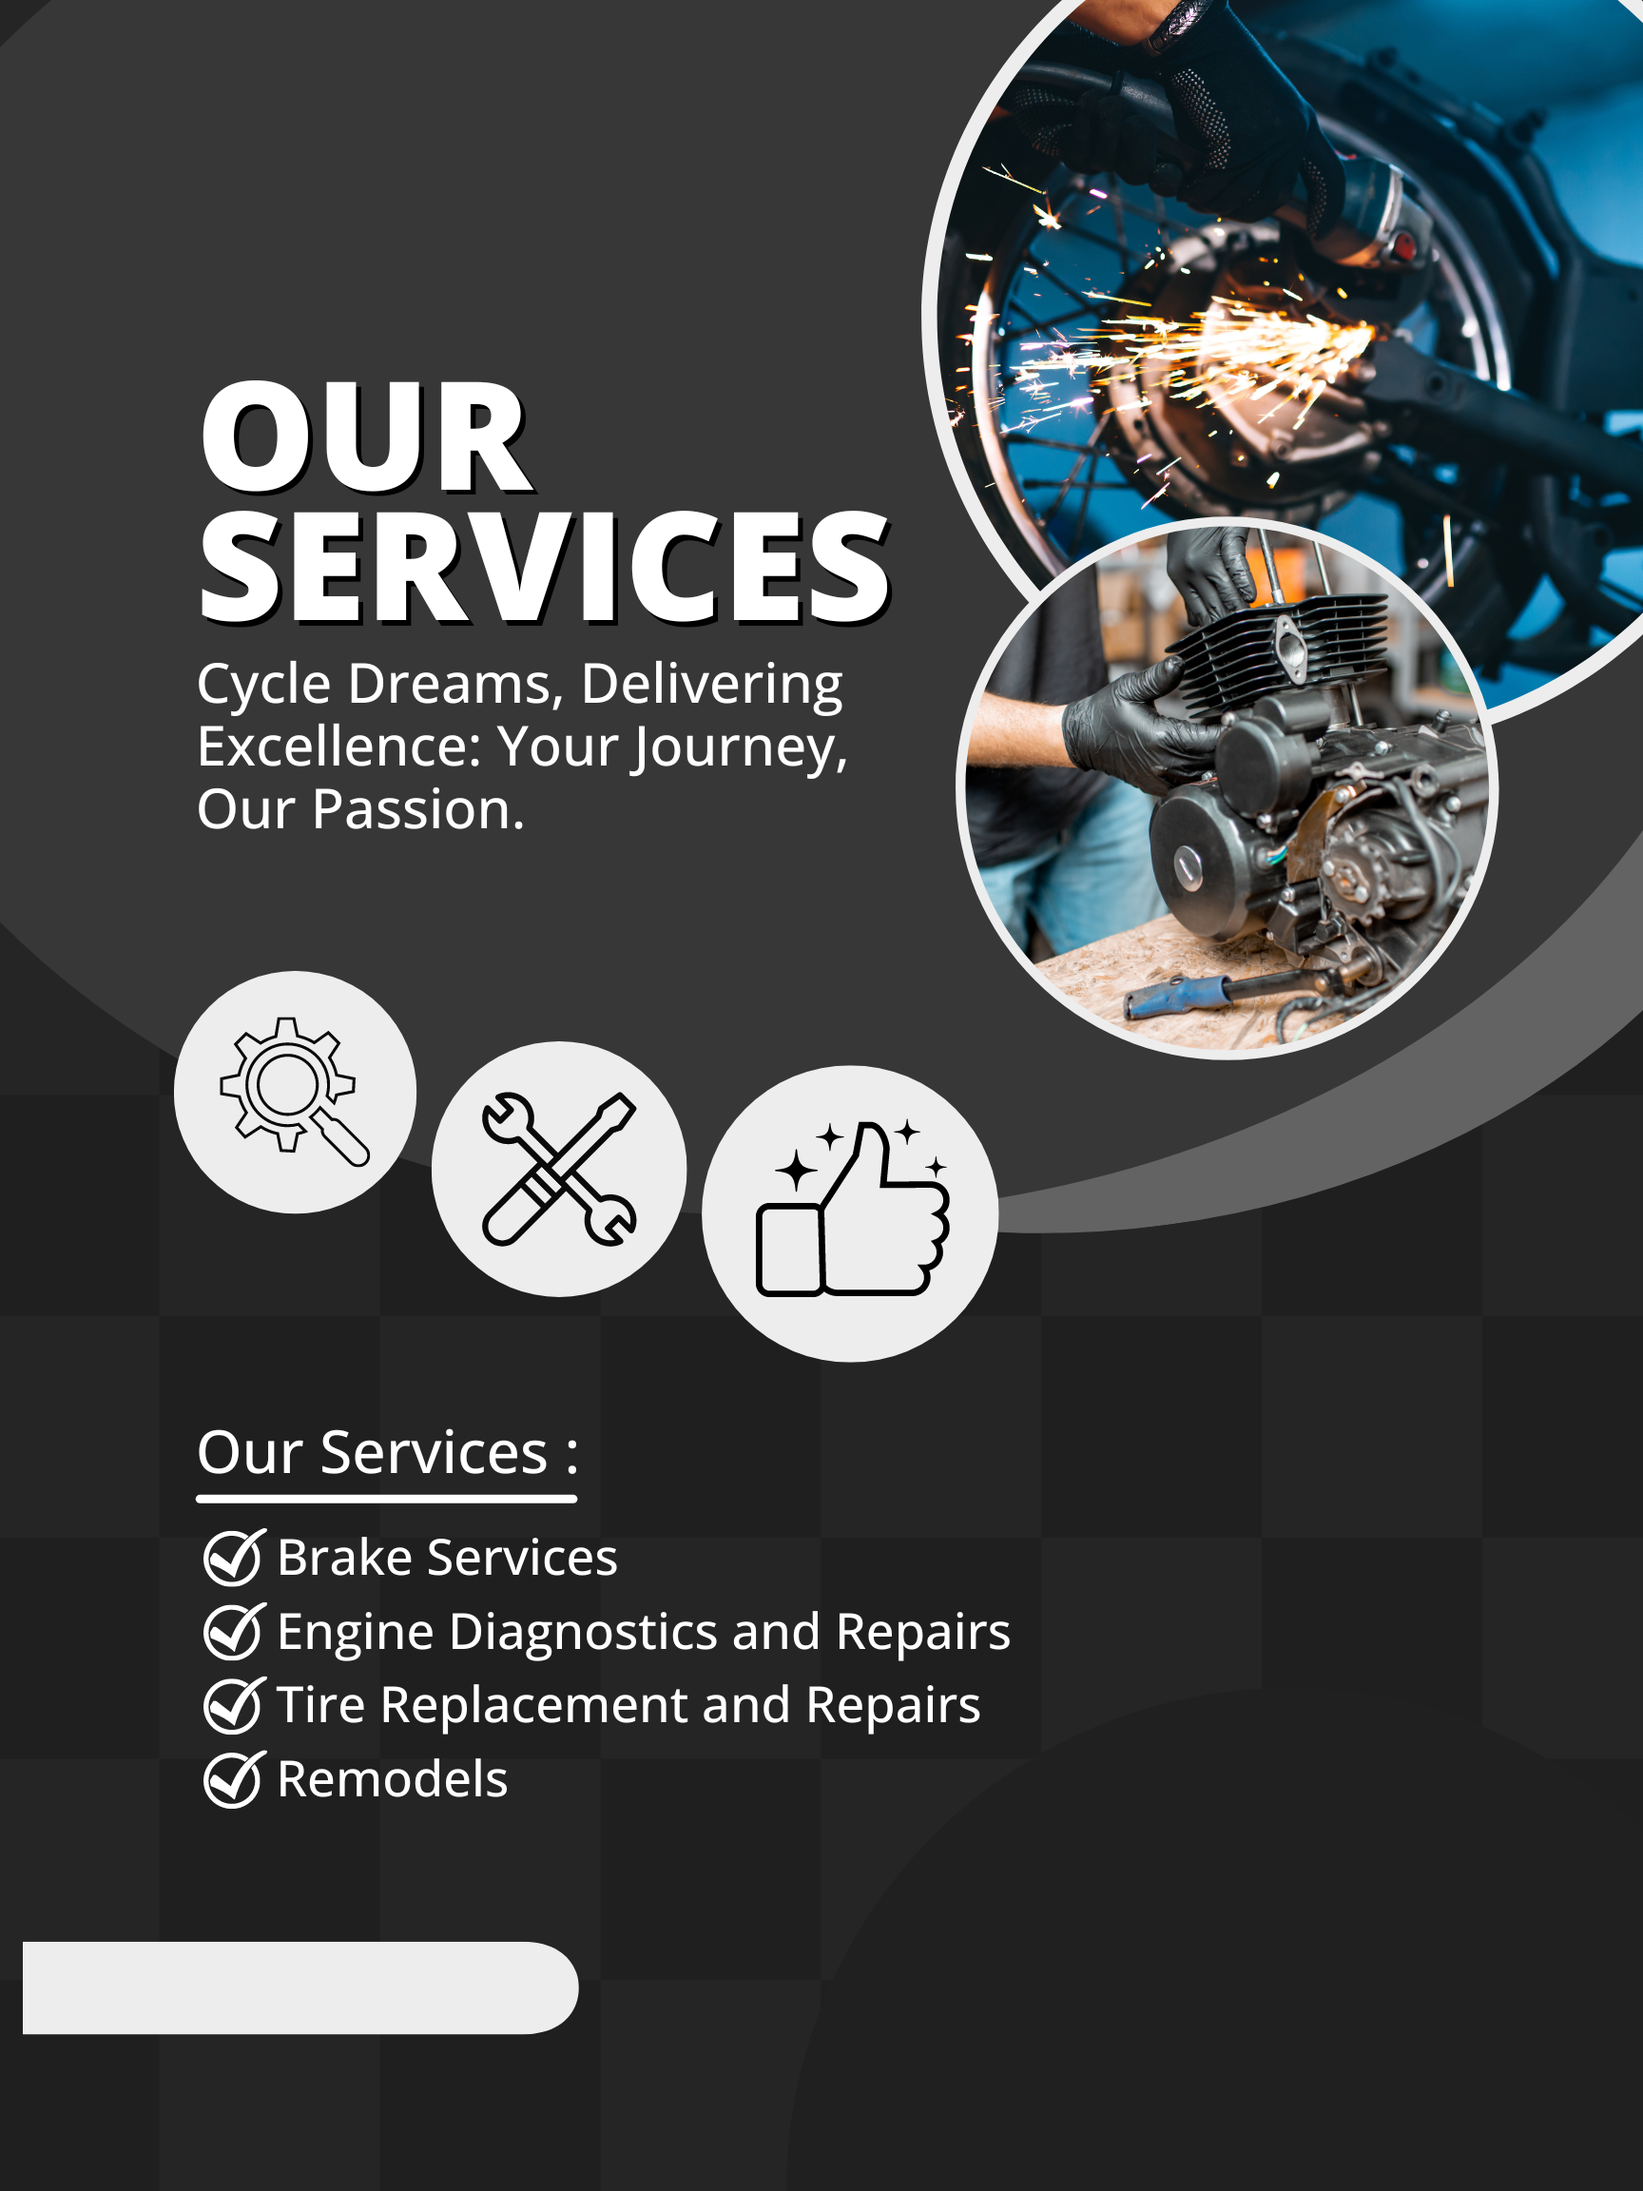
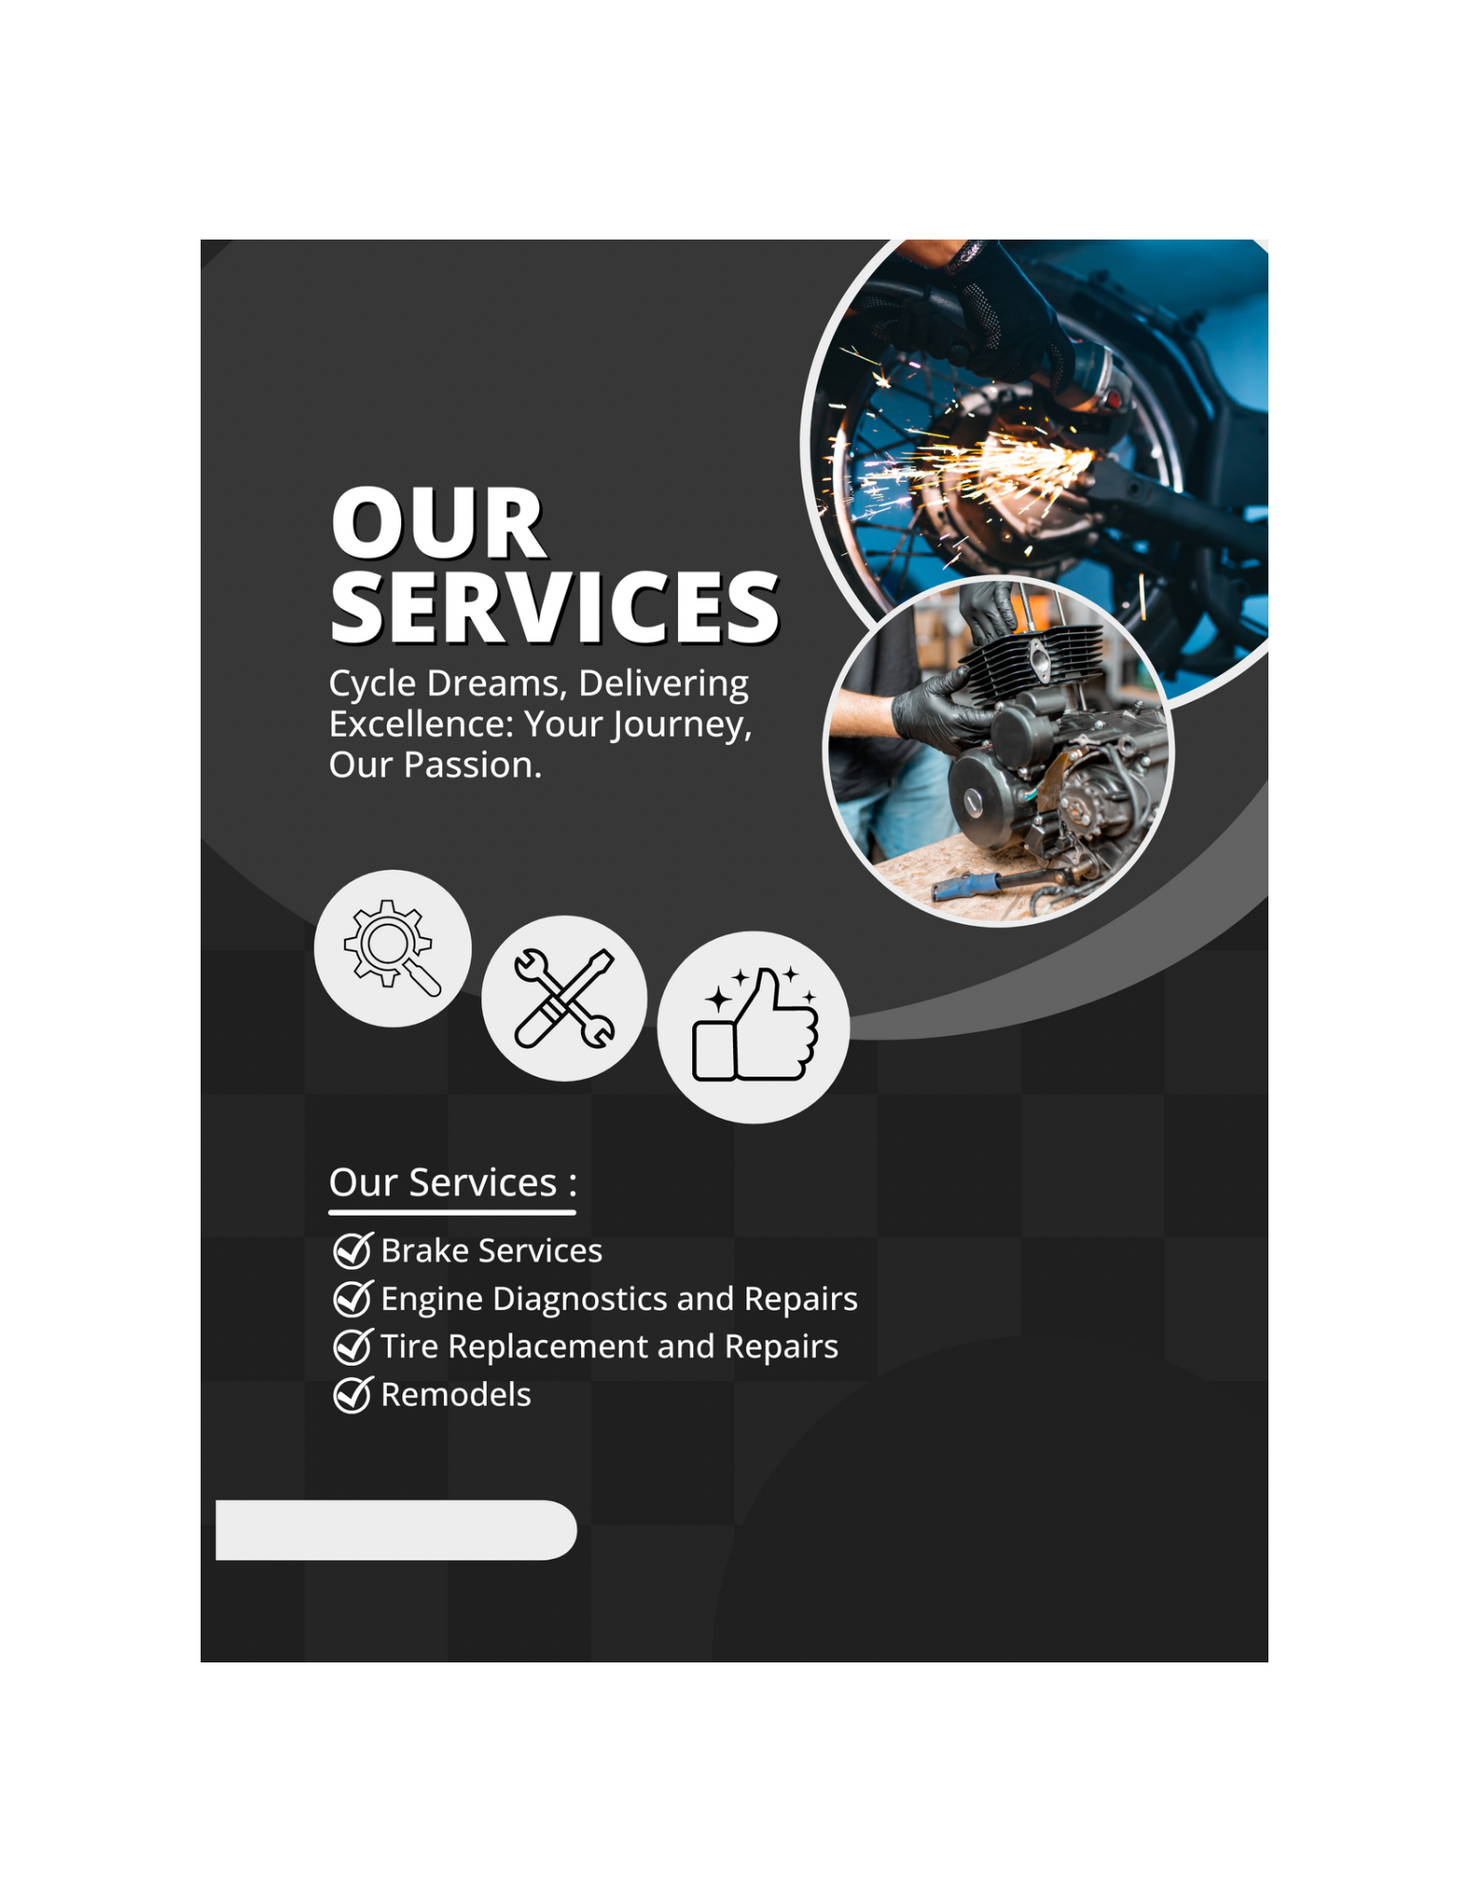
final

diff --git a/stylesheet/stylesheet4.css b/stylesheet/stylesheet4.css
@@ -21,33 +21,40 @@ body, html {
 }
 
 
-.cont-img {
-  border-radius: 5px;;
-  padding: 20px;
+form {
+  border: 4px solid #f1f1f1;
 }
-/* Style inputs with type="text", select elements and textareas */
-input[type=text], select, textarea {
-  width: 100%; /* Full width */
-  padding: 12px; /* Some padding */  
-  border: 1px solid #ccc; /* Gray border */
-  border-radius: 4px; /* Rounded borders */
-  box-sizing: border-box; /* Make sure that padding and width stays in place */
-  margin-top: 6px; /* Add a top margin */
-  margin-bottom: 16px; /* Bottom margin */
-  resize: vertical; /* Allow the user to vertically resize the textarea (not horizontally) */
-color:white}
 
-/* Style the submit button with a specific background color etc */
+/* Add some padding and a grey background color to containers */
+.container2 { padding: 20px;
+  background-color: #f1f1f1; width: 50%; display: flex;position: absolute;
+  left: 0;
+  margin: 20px;
+  
+}
+
+/* Style the input elements and the submit button */
+input[type=text], input[type=submit] {
+  width: 50%;
+  padding: 12px;
+  margin: 8px 0;
+  display: inline-block;
+  border: 1px solid #ccc;
+  box-sizing: border-box;
+}
+
+/* Add margins to the checkbox */
+input[type=checkbox] {
+  margin-top: 16px;
+}
+
+/* Style the submit button */
 input[type=submit] {
   background-color: maroon;
   color: white;
-  padding: 12px 20px;
   border: none;
-  border-radius: 4px;
-  cursor: pointer;
 }
 
-/* When moving the mouse over the submit button, add a darker green color */
 input[type=submit]:hover {
-  background-color:black;
+  opacity: 0.8;
 }

diff --git a/services.html b/services.html
@@ -3,8 +3,41 @@
 <head>
 <meta charset="UTF-8">
 <title>Untitled Document</title>
-</head>
+<link rel="stylesheet" type="text/css" href="stylesheet/stylesheet5.css">
+	<link rel="preconnect" href="https://fonts.googleapis.com">
+<link rel="preconnect" href="https://fonts.gstatic.com" crossorigin>
+<link href="https://fonts.googleapis.com/css2?family=Anton+SC&family=Bangers&display=swap" rel="stylesheet">
+	</head>
 
 <body>
+
+	<header>
+      
+      
+  <div class="container">
+	  
+    <div class="topnav">
+		<img class="logo" src="images/GearHead Garage.png"  alt="logo">
+      <a href="aboutpage.html">About</a>
+		<a href="contact.html">Contact</a>
+		<a href="services.html">Services</a>
+      <a href="index.html">Home</a>
+      
+	  
+	  </div>
+</div>
+	</header>
+	<h3 class="bangers-regular"> Ride smooth with top-notch motorcycle services </h3>
+<div class="div">
+	
+  <img src="images/services.png" alt="servicesflyer" style="width: 100%">
+	
+	
+	
+	
+  </div>
+	
+	
+	
 </body>
 </html>

diff --git a/contact.html b/contact.html
@@ -17,9 +17,9 @@
     <div class="topnav">
 		<img class="logo" src="images/GearHead Garage.png" alt="logo">
       <a href="aboutpage.html">About</a>
-		<a href="#contact">Contact</a>
-		<a href="#news">Services</a>
-      <a href="#home">Home</a>
+		<a href="contact.html"> Contact</a>
+		<a href="services.html">Services</a>
+      <a href="index.html"> Home </a>
       
 	  
 	  </div>
@@ -31,8 +31,23 @@
 	
 	<div>
 	<div class="bg-img"> 
-		<div class="cont-img">
-		
+		<div class="container2">
+		<form action="action_page.php">
+  <div class="container">
+    <h2>Contact us for a Consultation!</h2>
+    <p>We will conact you to Schedule an appointment. </p>
+  </div>
+
+  <div class="container" style="background-color:white">
+    <input type="text" placeholder="Name" name="name" required>
+    <input type="text" placeholder="Email address" name="mail" required>
+    
+  </div>
+
+  <div class="container">
+    <input type="submit" value="Subscribe">
+  </div>
+</form>
 		
 		
 		

diff --git a/stylesheet/stylesheet5.css b/stylesheet/stylesheet5.css
@@ -1,0 +1,57 @@
+header {
+        background-color:maroon;
+        padding: 5px;
+        color: #fff;
+      }
+
+  
+
+.container {
+  position:relative;
+  margin: 20px;
+  width: auto;
+}
+
+
+.topnav {
+  overflow: hidden;
+  background-color: #333;
+}
+
+
+.topnav a {
+  float: right;
+  color: #f2f2f2;
+  text-align: center;
+  padding: 14px 16px;
+  text-decoration: none;
+  font-size: 17px;
+}
+
+.topnav a:hover {
+  background-color: #ddd;
+  color: black;
+}
+	
+		.logo {
+    display: inline-block;
+    vertical-align: top;
+    width: 100px;
+    height: 100px;
+    margin-right: 10px;
+     
+}
+
+body {background-color: lightgray}
+
+.div {display: flex;
+flex-direction: row;
+}
+@media(max-width:800px) {.div {flex-direction: column}
+}
+.bangers-regular {
+  font-family: "Bangers", system-ui;
+  font-weight: 400;
+  font-style: normal;
+}
+h3 {text-align:center;font-size:50px}

diff --git a/aboutpage.html b/aboutpage.html
@@ -31,11 +31,11 @@
   <div class="container">
 	  
     <div class="topnav">
-		<img class="logo" src="stylesheet/images/GearHead Garage.png" alt="logo">
-      <a href="#home">Home</a>
-      <a href="#news">News</a>
-      <a href="#contact">Contact</a>
-      <a href="">About</a>
+		<img class="logo" src="images/GearHead Garage.png" alt="logo">
+      <a href="index.html">Home</a>
+      <a href="services.html">Services</a>
+      <a href="contact.html">Contact</a>
+      <a href="aboutpage.html">About</a>
 	  
 	  </div>
 </div>
@@ -43,7 +43,7 @@
 	
 	<div class="div"> 
 	
-	<img src="stylesheet/images/about.png" alt="aboutmepage" style="width:100%">
+	<img src="images/about.png" alt="aboutmepage" style="width:100%">
 	
 	
 	

diff --git a/index.html b/index.html
@@ -47,8 +47,8 @@
     <div class="topnav">
 		<img class="logo" src="images/GearHead Garage.png"  alt="logo">
       <a href="aboutpage.html">About</a>
-		<a href="#contact">Contact</a>
-		<a href="">Services</a>
+		<a href="contact.html">Contact</a>
+		<a href="services.html">Services</a>
       <a href="index.html">Home</a>
       
 	  

diff --git a/stylesheet/stylesheet1.css b/stylesheet/stylesheet1.css
@@ -83,6 +83,7 @@ h2 { font-size:35px; text-align:center}
   left: 50%;
   transform: translate(-50%, -50%); font-size: 50px; color: white
 }
+
 .bangers-regular {
   font-family: "Bangers", system-ui;
   font-weight: 400;
